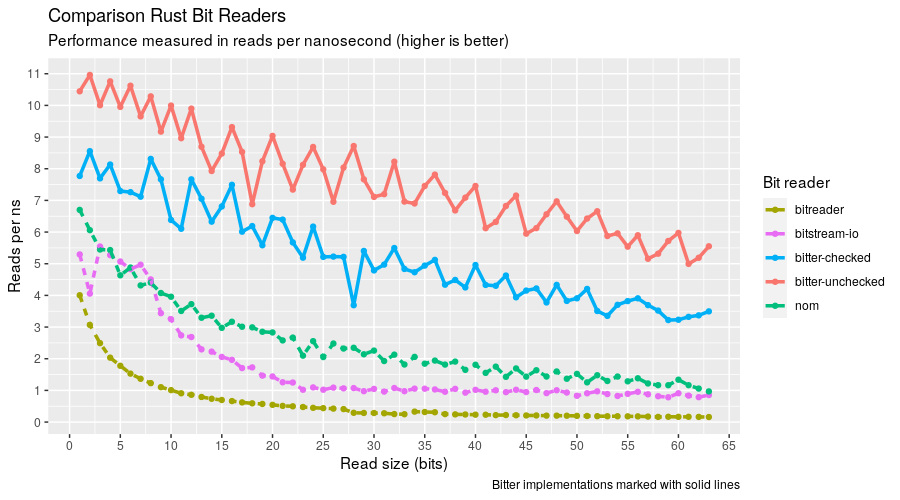
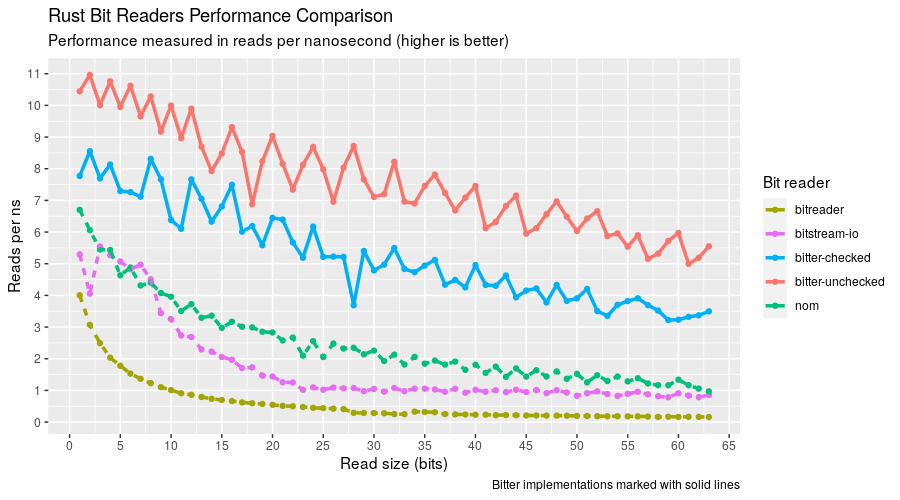
Touchup on the benchmark graph

Changed region(s): [[0.0622, 0.0, 0.4356, 0.06]]

diff --git a/README.md b/README.md
@@ -98,5 +98,4 @@ Takeaways from the above chart:
 
 * Bitter unchecked APIs yield the greatest throughput (reads per second)
 * Bitter checked APIs cost less than half the throughput of bitter unchecked APIs
-* Nom has a small but appreciable throughput with an increase in read sizes
-* Other libraries should not be considered for performance sensitive areas
+* Bitter is 2x-6x faster than other libraries depending on the read size
